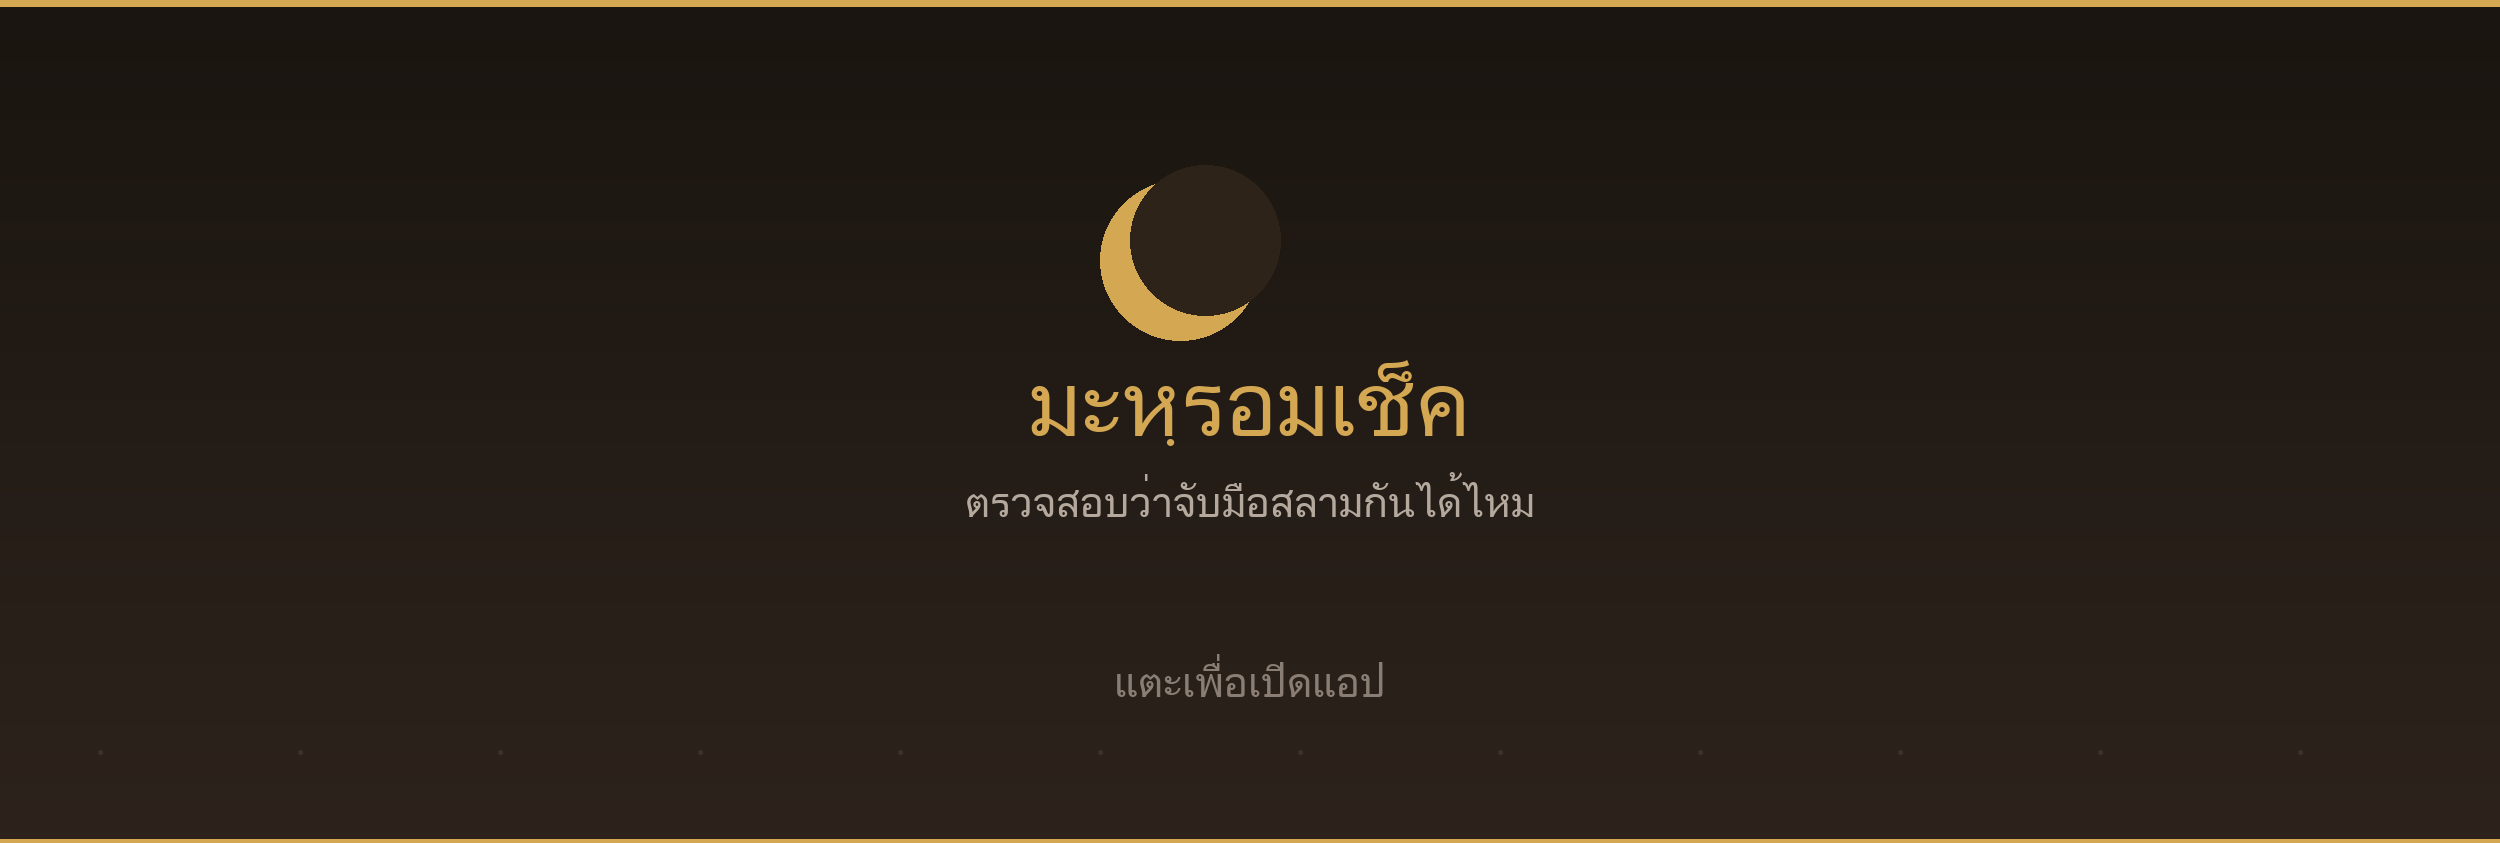
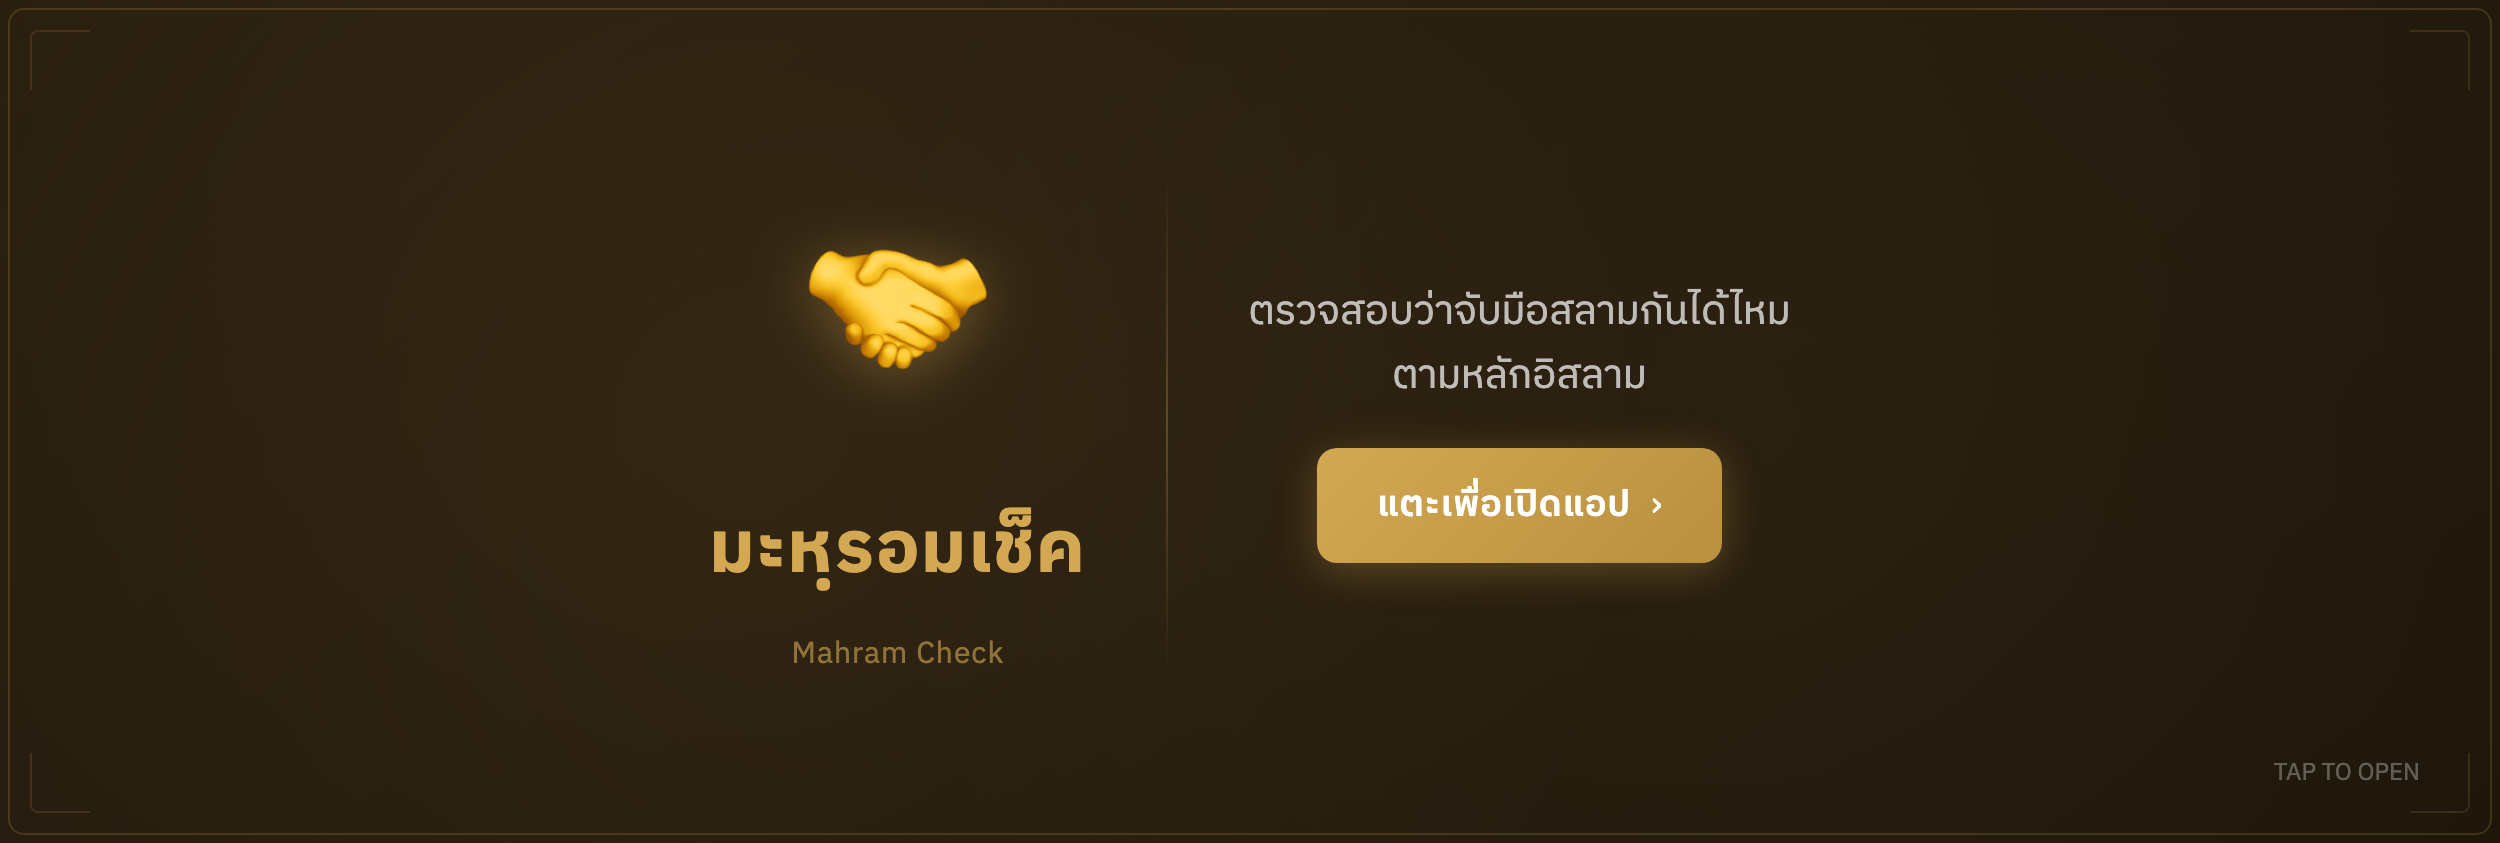
rebrand: เปลี่ยนโลโก้เป็นมือจับสลาม + rich menu ใหม่ + โปรโมท FB
- เปลี่ยนโลโก้จาก ☪ เป็น 🤝 (มือจับสลาม) ทั้ง icon, SVG, HTML, webhook
- ออกแบบ rich menu ใหม่: พื้นเข้ม + แบรนดิ้งทอง + CTA ชัดเจน
- อัปเดต CSS ให้ logo box เป็นธีมเข้มหรูหรา
- เพิ่มข้อความโปรโมท Facebook 10 แบบ (promo-facebook.md)

diff --git a/api/webhook.js b/api/webhook.js
@@ -77,7 +77,7 @@ function makeFlexResult(input, result) {
 function makeWelcome() {
   return {
     type: "flex",
-    altText: "☪ มะหฺรอมเช็ค — ตรวจสอบว่าจับมือสลามกันได้ไหม",
+    altText: "🤝 มะหฺรอมเช็ค — ตรวจสอบว่าจับมือสลามกันได้ไหม",
     contents: {
       type: "bubble",
       size: "kilo",
@@ -85,7 +85,7 @@ function makeWelcome() {
         type: "box",
         layout: "vertical",
         contents: [
-          { type: "text", text: "☪ มะหฺรอมเช็ค", size: "lg", weight: "bold", color: "#b8903e" },
+          { type: "text", text: "🤝 มะหฺรอมเช็ค", size: "lg", weight: "bold", color: "#b8903e" },
           { type: "text", text: "ตรวจสอบว่าจับมือสลามกันได้ไหม\nตามหลักอิสลาม", size: "sm", color: "#555555", wrap: true, margin: "md" },
           { type: "separator", margin: "lg" },
           { type: "text", text: "💬 พิมพ์ความสัมพันธ์ส่งมาได้เลย เช่น", size: "sm", color: "#8a7e74", margin: "lg" },
@@ -158,7 +158,7 @@ export default async function handler(req, res) {
         }
       } catch {
         await reply(event.replyToken, [
-          { type: "text", text: `☪ มะหฺรอมเช็ค\n\nเปิดแอปเพื่อตรวจสอบ:\n${LIFF_URL}` },
+          { type: "text", text: `🤝 มะหฺรอมเช็ค\n\nเปิดแอปเพื่อตรวจสอบ:\n${LIFF_URL}` },
         ]);
       }
     }

diff --git a/public/index.html b/public/index.html
@@ -21,7 +21,7 @@
   <div id="genderScreen">
     <div class="deco-circle deco-1"></div>
     <div class="deco-circle deco-2"></div>
-    <div class="logo-wrap"><div class="logo">☪</div></div>
+    <div class="logo-wrap"><div class="logo">🤝</div></div>
     <h1 class="title">มะหฺรอมเช็ค</h1>
     <p class="subtitle-ar">فحص المحرم</p>
     <p class="subtitle">ตรวจสอบว่าจับมือสลามกันได้ไหม</p>
@@ -36,7 +36,7 @@
   <div id="mainScreen">
     <div class="topbar">
       <button class="back-btn" onclick="goBack()"><span style="font-size:18px">‹</span> กลับ</button>
-      <div class="topbar-title"><span style="color:var(--accent)">☪</span> มะหฺรอมเช็ค</div>
+      <div class="topbar-title"><span style="color:var(--accent)">🤝</span> มะหฺรอมเช็ค</div>
       <span class="topbar-badge" id="genderBadge"></span>
     </div>
     <div class="content">

diff --git a/public/css/style.css b/public/css/style.css
@@ -38,9 +38,10 @@ body{
 .logo-wrap{animation:float 3s ease-in-out infinite;margin-bottom:32px}
 .logo{
   width:88px;height:88px;margin:0 auto;border-radius:28px;
-  background:linear-gradient(135deg,var(--accent),var(--accent-dark));
+  background:linear-gradient(145deg,#3d2e1a,#2a1f10);
   display:flex;align-items:center;justify-content:center;
-  font-size:40px;color:#fff;box-shadow:0 12px 40px #d4a85340;transform:rotate(-3deg);
+  font-size:44px;box-shadow:0 12px 40px rgba(212,168,83,0.3);transform:rotate(-3deg);
+  border:1.5px solid rgba(212,168,83,0.25);
 }
 .title{font-size:26px;font-weight:700;color:var(--text);margin-bottom:6px;letter-spacing:-0.5px}
 .subtitle-ar{font-family:'Noto Naskh Arabic',serif;font-size:16px;color:var(--text-sec);margin-bottom:4px;direction:rtl}

diff --git a/promo-facebook.md b/promo-facebook.md
@@ -1,0 +1,188 @@
+# ข้อความโปรโมทสำหรับ Facebook — มะหฺรอมเช็ค
+
+---
+
+## โพสต์ที่ 1: แนะนำแอป (เปิดตัว)
+
+🤝 **จับมือสลามได้ไหม? เช็คง่ายๆ ได้แล้ววันนี้!**
+
+เคยสงสัยไหมว่า... คนนี้เป็นมะหฺรอมของเราหรือเปล่า?
+จับมือสลามกันได้ไหม?
+
+🔍 "มะหฺรอมเช็ค" เครื่องมือตรวจสอบความเป็นมะหฺรอมตามหลักอิสลาม
+✅ แค่พิมพ์ความสัมพันธ์ ก็รู้คำตอบทันที
+✅ อ้างอิงหลักฟิกฮ์ที่ถูกต้อง
+✅ ฟรี ไม่ต้องโหลด ใช้ผ่านไลน์ได้เลย
+
+👉 เพิ่มเพื่อน LINE: [ใส่ลิงก์]
+หรือพิมพ์ "เช็ค ลุง" ส่งมาที่บอทเลย!
+
+#มะหฺรอมเช็ค #MahramCheck #อิสลาม #มุสลิม #ฟิกฮ์ #จับมือสลาม
+
+---
+
+## โพสต์ที่ 2: สถานการณ์งานแต่ง
+
+🤝 **ไปงานนิกาห์ เจอญาติฝ่ายเจ้าบ่าว... จับมือได้ไหม?**
+
+งานแต่งงานมุสลิม เจอญาติผู้ใหญ่หลายคน
+บางทีก็ไม่แน่ใจว่าเป็นมะหฺรอมหรือเปล่า 😅
+
+ไม่ต้องเขินที่จะถาม! ลองเช็คก่อนได้
+พิมพ์ "เช็ค พี่ชายของสามี" ส่งมาที่ LINE บอทเลย
+
+📱 เพิ่มเพื่อน LINE: [ใส่ลิงก์]
+
+#มะหฺรอมเช็ค #งานนิกาห์ #มุสลิมไทย #อิสลาม
+
+---
+
+## โพสต์ที่ 3: คำถามยอดฮิต
+
+🤔 **"ลูกพี่ลูกน้อง เป็นมะหฺรอมไหม?"**
+
+คำถามที่คนถามบ่อยที่สุด!
+
+คำตอบ: ❌ ลูกพี่ลูกน้อง **ไม่ใช่** มะหฺรอม
+ไม่อนุญาตให้สัมผัสกัน แม้จะเป็นญาติสนิท
+
+อยากรู้ความสัมพันธ์อื่นๆ? ลองเช็คได้เลย!
+🤝 มะหฺรอมเช็ค — ใช้ฟรี ผ่าน LINE
+
+👉 [ใส่ลิงก์]
+
+#มะหฺรอมเช็ค #ลูกพี่ลูกน้อง #มะหฺรอม #ฟิกฮ์อิสลาม
+
+---
+
+## โพสต์ที่ 4: เน้นความง่าย
+
+⚡ **เช็คมะหฺรอม ใช้เวลาแค่ 3 วินาที**
+
+1⃣ เพิ่มเพื่อน LINE
+2⃣ พิมพ์ "เช็ค" ตามด้วยความสัมพันธ์
+3⃣ ได้คำตอบทันที พร้อมเหตุผล
+
+ตัวอย่าง:
+"เช็ค ลุง" → ✅ เป็นมะหฺรอม
+"เช็ค พี่เขย" → ❌ ไม่เป็นมะหฺรอม
+
+ง่ายแบบนี้ ลองเลย!
+👉 [ใส่ลิงก์]
+
+#มะหฺรอมเช็ค #MahramCheck #LINEBot #มุสลิม
+
+---
+
+## โพสต์ที่ 5: แชร์ความรู้
+
+📖 **รู้หรือไม่? มะหฺรอมมี 3 ประเภท**
+
+1. 🩸 **นะซับ (สายเลือด)** — พ่อ แม่ พี่น้อง ลุง ป้า น้า อา
+2. 💍 **มุศอฮะเราะฮ์ (สมรส)** — พ่อสามี แม่ภรรยา ลูกเลี้ยง
+3. 🍼 **เราะฎออ์ (นมแม่)** — พี่น้องร่วมนมแม่เลี้ยง
+
+แต่ละประเภทมีรายละเอียดต่างกัน
+อยากรู้ว่าใครเป็นมะหฺรอมของคุณ? เช็คได้ฟรี!
+
+🤝 มะหฺรอมเช็ค: [ใส่ลิงก์]
+
+#มะหฺรอมเช็ค #ความรู้อิสลาม #ฟิกฮ์ #มะหฺรอม #นะซับ
+
+---
+
+## โพสต์ที่ 6: สถานการณ์วันฮารีรายอ
+
+🌙 **ฮารีรายอนี้ เจอญาติเยอะ ใครจับมือได้บ้าง?**
+
+วันรายอ ญาติๆ มากันเต็มบ้าน
+ผู้ใหญ่ยื่นมือมาสลาม... จะทำยังไงดี?
+
+เตรียมตัวก่อนไปเยี่ยมญาติ!
+เช็คมะหฺรอมล่วงหน้าได้เลยที่ 🤝 มะหฺรอมเช็ค
+
+"เช็ค อาของสามี" → ❌ ไม่เป็นมะหฺรอม
+"เช็ค พ่อของสามี" → ✅ เป็นมะหฺรอม
+
+👉 เพิ่มเพื่อน LINE: [ใส่ลิงก์]
+
+#มะหฺรอมเช็ค #ฮารีรายอ #อีดิ้ลฟิตรี #มุสลิมไทย
+
+---
+
+## โพสต์ที่ 7: มุสลิมใหม่
+
+💚 **เพิ่งเข้ารับอิสลาม? เรื่องมะหฺรอมไม่ต้องจำเอง**
+
+สำหรับมุสลิมใหม่ เรื่องมะหฺรอมอาจจะสับสน
+ว่าจับมือใครได้ จับมือใครไม่ได้
+
+🤝 มะหฺรอมเช็ค ช่วยคุณได้!
+แค่พิมพ์ความสัมพันธ์ ระบบจะบอกคำตอบ
+พร้อมอธิบายเหตุผลตามหลักฟิกฮ์ให้ด้วย
+
+ใช้ง่าย ฟรี ผ่าน LINE
+👉 [ใส่ลิงก์]
+
+#มะหฺรอมเช็ค #มุสลิมใหม่ #มุอัลลัฟ #อิสลาม #เข้ารับอิสลาม
+
+---
+
+## โพสต์ที่ 8: พี่ชายสามี (คำถามยอดฮิต)
+
+⚠ **"พี่ชายของสามี" จับมือได้ไหม?**
+
+หลายคนเข้าใจผิดว่าเป็นญาติสามีก็น่าจะเป็นมะหฺรอม
+
+แต่จริงๆ แล้ว...
+❌ พี่น้องชายสามี **ไม่ใช่** มะหฺรอม
+
+ท่านนบี ﷺ กล่าวว่า:
+"พี่น้องสามีคือความตาย" (บันทึกโดย อัลบุคอรีย์)
+
+หมายถึงต้องระวังเป็นพิเศษ ไม่ควรอยู่สองต่อสอง
+
+อยากเช็คความสัมพันธ์อื่น?
+🤝 มะหฺรอมเช็ค: [ใส่ลิงก์]
+
+#มะหฺรอมเช็ค #พี่ชายสามี #หะดีษ #ฟิกฮ์อิสลาม
+
+---
+
+## โพสต์ที่ 9: ฟีเจอร์ AI
+
+🤖 **ถามแบบไหนก็ตอบได้!**
+
+มะหฺรอมเช็ค มี AI ช่วยวิเคราะห์
+ไม่ว่าจะพิมพ์แบบไหน ก็เข้าใจ
+
+ลองพิมพ์:
+• "ลุง" → ✅ เป็นมะหฺรอม
+• "แม่ของแม่ของสามี" → ✅ เป็นมะหฺรอม
+• "ลูกสาวของพี่ชายสามี" → ❌ ไม่เป็น
+
+แม้ความสัมพันธ์ซับซ้อน AI ก็ช่วยวิเคราะห์ได้!
+👉 ลองเลย: [ใส่ลิงก์]
+
+#มะหฺรอมเช็ค #AI #MahramCheck #เทคโนโลยีอิสลาม
+
+---
+
+## โพสต์ที่ 10: กระตุ้นแชร์
+
+📢 **แชร์ให้เพื่อนมุสลิมรู้จัก!**
+
+ถ้าคุณเคยสงสัยเรื่องมะหฺรอม...
+เพื่อนคุณก็อาจสงสัยเหมือนกัน
+
+🤝 มะหฺรอมเช็ค — เครื่องมือเช็คมะหฺรอมฟรี
+✅ ใช้ง่าย แค่พิมพ์ความสัมพันธ์
+✅ ได้คำตอบทันที พร้อมอ้างอิง
+✅ ใช้ผ่าน LINE ไม่ต้องโหลดแอป
+
+แชร์โพสต์นี้ให้เป็นประโยชน์กับคนอื่น 🙏
+อินชาอัลลอฮ์ ได้ผลบุญ
+
+👉 เพิ่มเพื่อน LINE: [ใส่ลิงก์]
+
+#มะหฺรอมเช็ค #แชร์ #มุสลิม #อิสลาม #ดะวะฮ์ #MahramCheck
